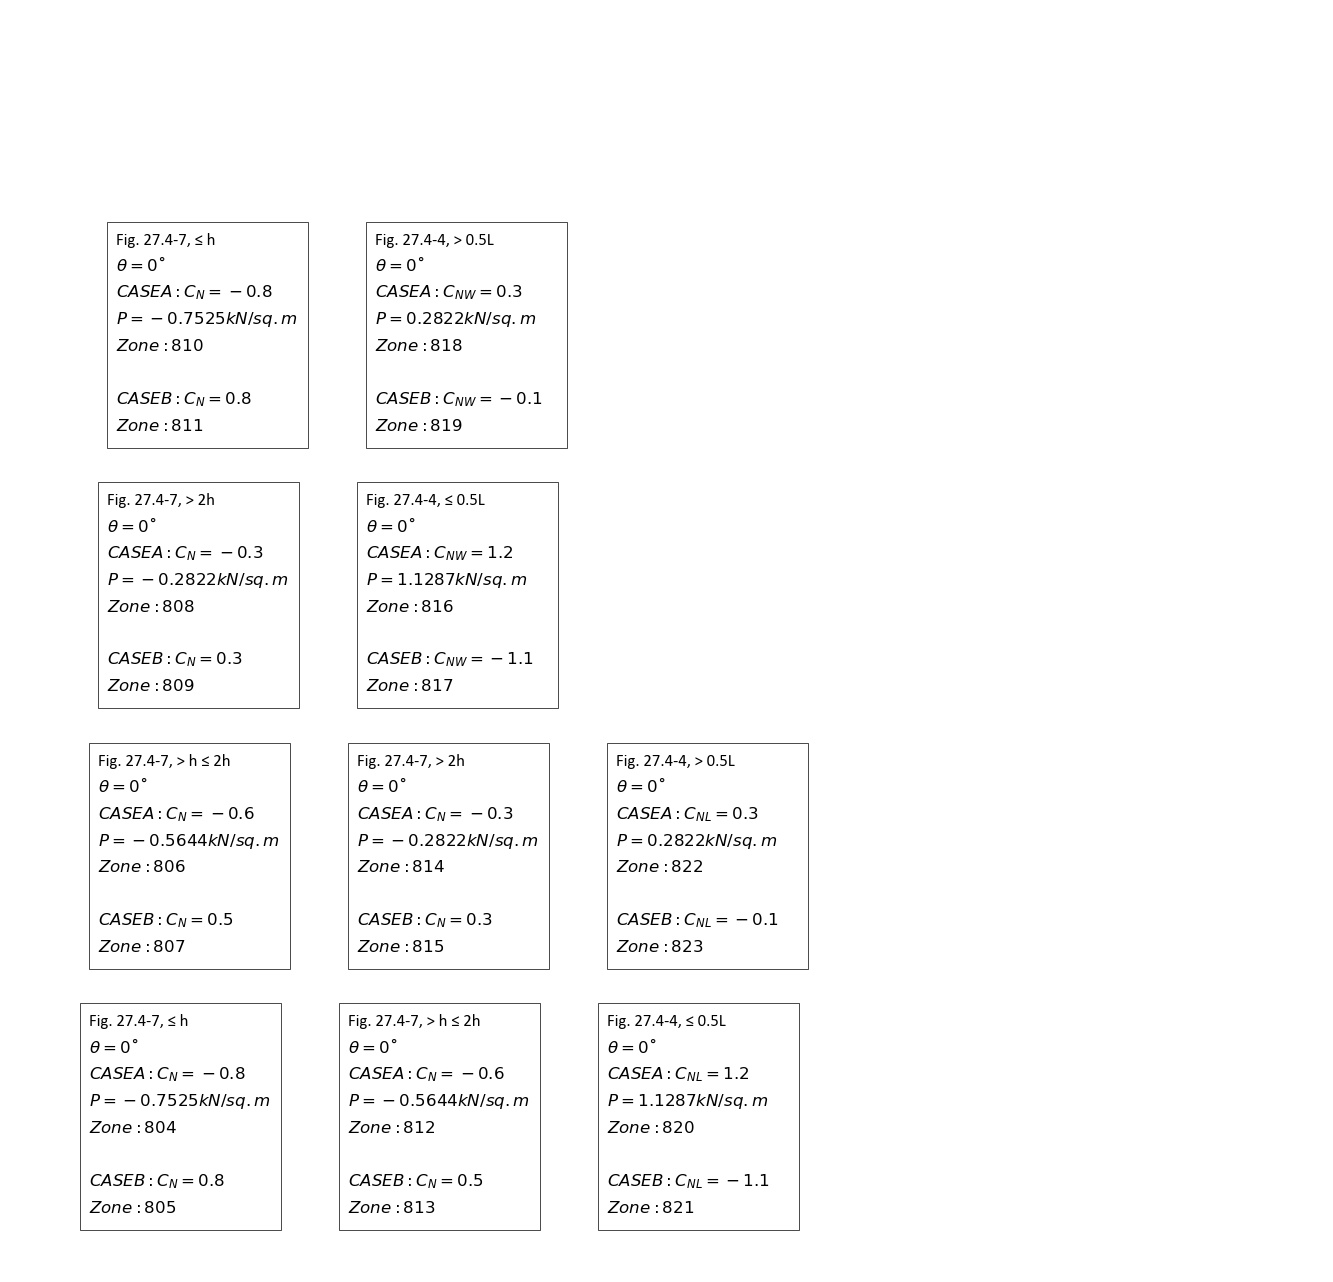
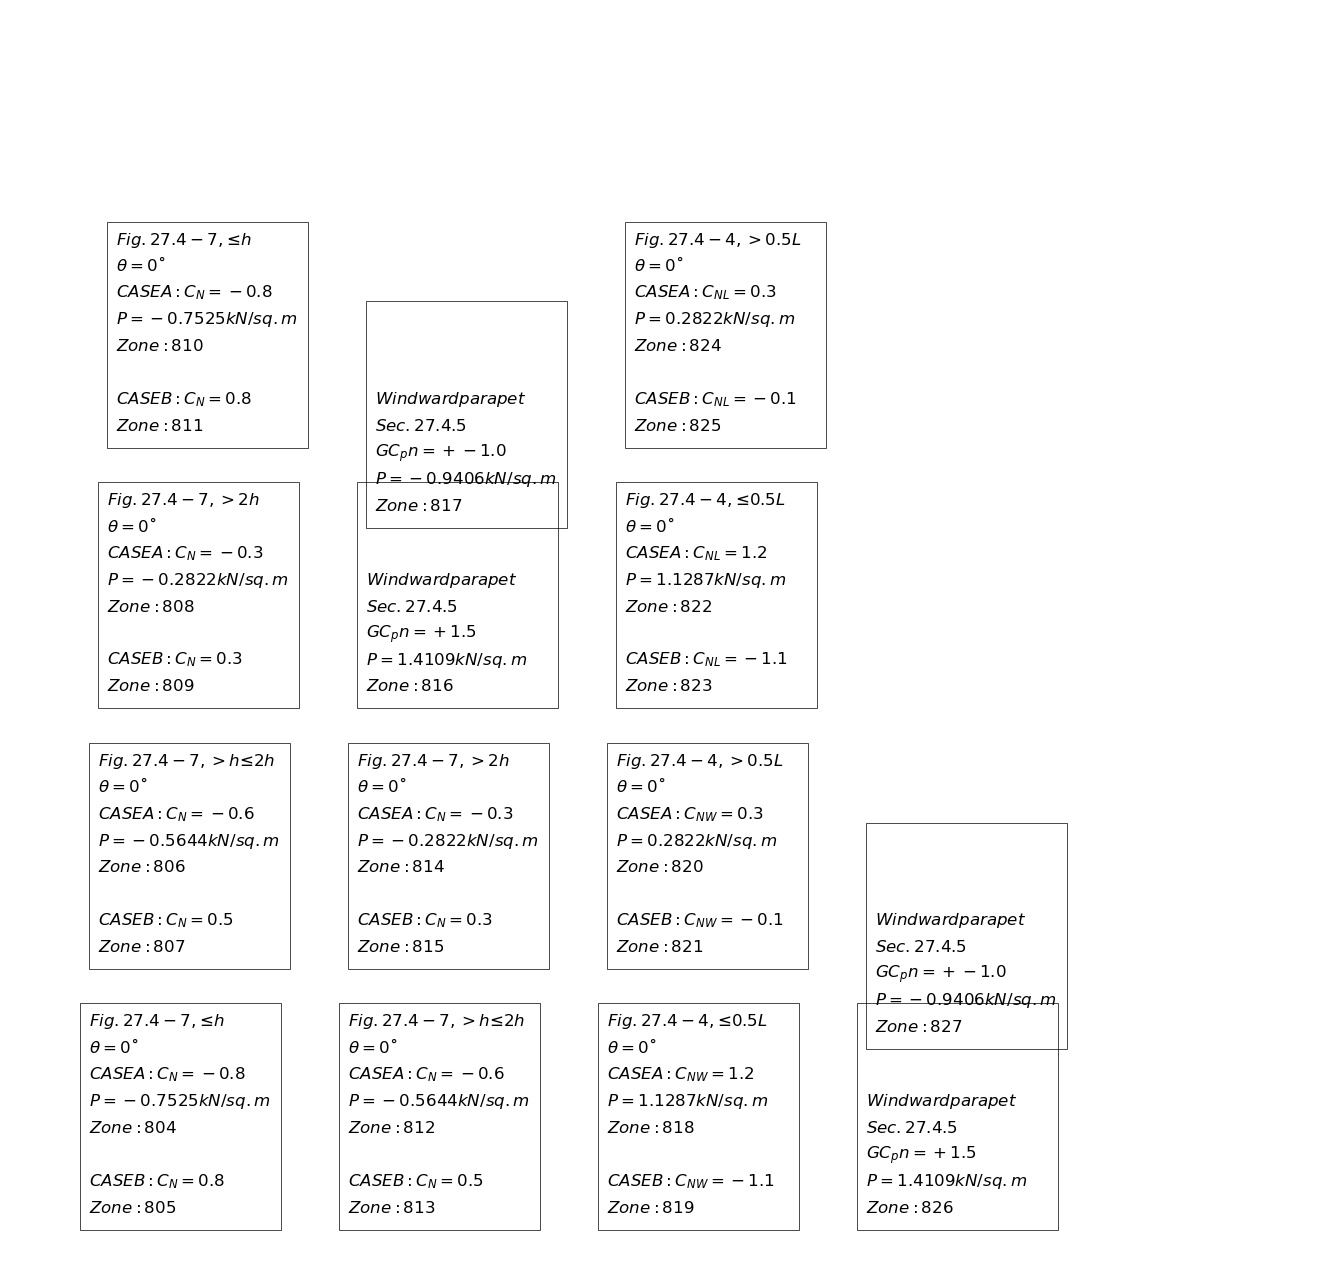
add wind parapet loads to windmap image

diff --git a/gen_desc/wind_design/wind_parapets.py b/gen_desc/wind_design/wind_parapets.py
@@ -1,17 +1,23 @@
 from gen_desc.run_properties import RunProperties
+from .wind_parapet_value import WindParapetValue
 from .constants import WindDesignConsts
 
 class WindParapets:
-    def __init__(self, wind_design, run_parts, pn_windward, pn_leeward, calcs = False):
+
+    def __init__(self, wind_design, run_parts, 
+        pn_windward, pn_leeward, calcs = False, windmap_values=[]):
         self.wind_design = wind_design
         self.run_parts = run_parts
         self.pn_windward = pn_windward
         self.pn_leeward = pn_leeward
         self.calcs = calcs
+        self.windmap_values = windmap_values
         self.runs = [RunProperties("", { "end_of_line": "true"})]
         self.runsParapet()
+        self.windvalues = []
         
     def parapetCases(self, pn_windward, pn_leeward, calcs = False):
+
         if calcs:
             self.runs.append(self.run_parts[WindDesignConsts.WINDWARD_PARAPET_CALC])
             self.runs.append(self.run_parts[WindDesignConsts.P])
@@ -44,8 +50,21 @@ class WindParapets:
 
         #wind load_parapet cases
         if self.calcs:
-            self.parapetCases(self.wind_design.windLoad(self.pn_windward), 
-                self.wind_design.windLoad(self.pn_leeward), True)
+            coeff_pos = self.wind_design.windLoad(self.pn_windward)
+            coeff_neg = self.wind_design.windLoad(self.pn_leeward)
+
+            pos_value = WindParapetValue(WindDesignConsts.WINDWARD_PARAPET_TITLE, 
+                WindDesignConsts.PARAPET_SECTION_TITLE, self.pn_windward, 
+                coeff_pos, self.wind_design.zone)
+            
+            neg_value = WindParapetValue(WindDesignConsts.LEEWARD_PARAPET_TITLE, 
+                WindDesignConsts.PARAPET_SECTION_TITLE,
+                self.pn_leeward, coeff_neg, (self.wind_design.zone + 1))
+                
+            self.windmap_values.append(pos_value)
+            self.windmap_values.append(neg_value)
+
+            self.parapetCases(coeff_pos, coeff_neg, True)
         else:
             self.parapetCases(self.pn_windward, self.pn_leeward)
 

diff --git a/gen_desc/wind_design/wind_design.py b/gen_desc/wind_design/wind_design.py
@@ -1,7 +1,4 @@
-from gen_desc.run_properties import RunProperties
 from gen_desc.plot.plot_windmap import PlotWindMap
-from .windmap_value import WindMapValue
-from .wind_parapets import WindParapets
 from .constants import WindDesignConsts
 from .wind_x import WindDesignPartsX
 from .wind_y import WindDesignPartsY
@@ -57,4 +54,6 @@ class WindDesign:
         return wind_texts
 
     def trials(self):
+        # for value in self.wind_calc_x.windmap_values:
+        #     print(value.toString())
         self.plotWindMap()

diff --git a/gen_desc/wind_design/wind_calc_y.py b/gen_desc/wind_design/wind_calc_y.py
@@ -15,8 +15,8 @@ class WindCalculationsY(WindDesignPartsY):
         if (self.wind_design.parapet_load == "true"):
             # self.runsParapet()
             runs_parapets = WindParapets(self.wind_design, self.run_parts, 
-                self.pn_windward, self.pn_leeward, True)
-            self.runs.extend(runs_parapets.runs)
+                self.pn_windward, self.pn_leeward, True, self.windmap_values)
+            self.runs.extend(runs_parapets.runs) 
 
     def windCases(self, cnw = 1, cnl = 1, title=None):
 

diff --git a/gen_desc/wind_design/wind_calc_x.py b/gen_desc/wind_design/wind_calc_x.py
@@ -14,7 +14,7 @@ class WindCalculationsX(WindDesignPartsX):
         if (self.wind_design.parapet_load == "true"):
             # self.runsParapet()
             runs_parapets = WindParapets(self.wind_design, self.run_parts, 
-                self.pn_windward, self.pn_leeward, True)
+                self.pn_windward, self.pn_leeward, True, self.windmap_values)
             self.runs.extend(runs_parapets.runs)
 
     def windCases(self, c_case_a = 1, c_case_b = 1, title=None):

diff --git a/gen_desc/wind_design/wind_parapet_value.py b/gen_desc/wind_design/wind_parapet_value.py
@@ -17,8 +17,8 @@ class WindParapetValue:
         Sets plot lines for the windmap_value
         '''
     
-        self.plot_lines.append(self.title)
-        self.plot_lines.append(self.subtitle)
+        self.plot_lines.append("$%s$"%self.title)
+        self.plot_lines.append("$%s$"%self.subtitle)
         self.plot_lines.append("$GC_pn = +%.1f$"%self.coeff)
         self.plot_lines.append("$P = %skN/sq.m$"%self.p)
         self.plot_lines.append("$Zone: %d$"%self.zone)

diff --git a/gen_desc/wind_design/windmap_value.py b/gen_desc/wind_design/windmap_value.py
@@ -47,7 +47,7 @@ class WindMapValue:
         Sets plot lines for the windmap_value
         '''
     
-        self.plot_lines.append(self.title)
+        self.plot_lines.append("$%s$"%self.title)
         self.plot_lines.append("$θ = %s˚$"%self.roof_angle)
         self.plot_lines.append("$CASE A: C_%s = %.1f$"%(self.coeff_prefix,self.c_case_a))
         self.plot_lines.append("$P = %skN/sq.m$"%self.p_case_a)

diff --git a/gen_desc/wind_design/wind_y.py b/gen_desc/wind_design/wind_y.py
@@ -20,7 +20,7 @@ class WindDesignPartsY:
         if (self.wind_design.parapet_load == "true"):
             # self.runsParapet()
             runs_parapets = WindParapets(self.wind_design, self.run_parts, 
-                self.pn_windward, self.pn_leeward)
+                self.pn_windward, self.pn_leeward) 
             self.runs.extend(runs_parapets.runs)
         
     def getRunParts(self):

diff --git a/gen_desc/wind_design/constants.py b/gen_desc/wind_design/constants.py
@@ -63,3 +63,8 @@ class WindDesignConsts:
     WIND_X_2H = "wind_x_2h"
     PARAPET_SECTION = "parapet_section"
     THETA = "theta"
+
+    #WIMDMAP PARAPET CONSTANTS
+    WINDWARD_PARAPET_TITLE = "Windward parapet"
+    LEEWARD_PARAPET_TITLE = "Windward parapet"
+    PARAPET_SECTION_TITLE = "Sec. 27.4.5"
